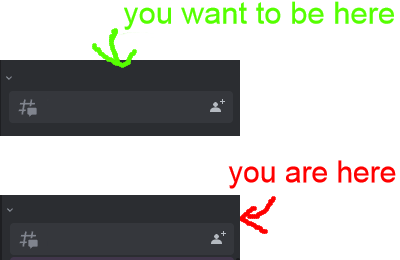
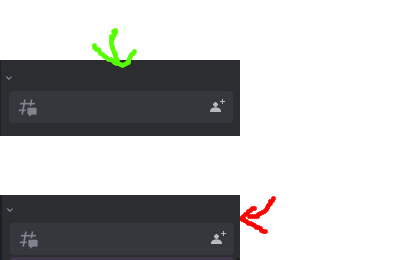
notsupport: make text customisable

Changed region(s): [[0.57, 0.6154, 0.99, 0.7385], [0.3, 0.0, 0.81, 0.1231], [0.84, 0.0, 0.99, 0.0923]]

diff --git a/src/commands/notsupport.ts b/src/commands/notsupport.ts
@@ -11,8 +11,10 @@ const FONT = '"gg sans", "Twemoji Mozilla", "Noto Sans", "Helvetica Neue", Helve
 let img: Image;
 
 interface Channels {
+    destCaption: string;
     destCategory: string;
     destChannel: string;
+    currentCaption: string;
     currentCategory: string;
     currentChannel: string;
 }
@@ -20,20 +22,33 @@ interface Channels {
 defineCommand({
     name: "notsupport",
     aliases: ["ns", "nots"],
-    async execute(msg, channelId) {
+    async execute(msg, channelId, ...captionElements) {
         if (!msg.inCachedGuildChannel()) return;
 
-        let channel = channelId && msg.guild.channels.get(channelId.match(/\d+/)?.[0] || "");
-        channel ||= msg.client.getChannel(SUPPORT_CHANNEL_ID) as AnyGuildChannelWithoutThreads;
+        let channel = msg.client.getChannel(SUPPORT_CHANNEL_ID) as AnyGuildChannelWithoutThreads;
+        let caption = captionElements.join(" ");
+        if (channelId) {
+            const customChannel = msg.guild.channels.get(channelId.match(/\d+/)?.[0] || "");
+            if (customChannel) {
+                channel = customChannel;
+            } else {
+                caption = channelId + " " + caption;
+            }
+        }
 
         if (!channel || !channel.name) return;
+
+        const [destCaption, currentCaption] = caption.split("|").map(s => s.trim());
 
         const image = await drawNotSupportImage({
             currentCategory: msg.channel.parent?.name || "No Category",
             currentChannel: msg.channel.name,
             destCategory: channel.parent?.name || "No Category",
-            destChannel: channel.name
+            destChannel: channel.name,
+            destCaption: destCaption || "you want to be here",
+            currentCaption: currentCaption || "you are here"
         });
+
         msg.channel.createMessage({
             content: `👉 ${channel.mention}`,
             files: [
@@ -91,10 +106,23 @@ function draw(channels: Channels) {
         ctx.restore();
     }
 
+    function drawText(color: string, text: string, x: number, y: number) {
+        ctx.save();
+
+        ctx.font = "600 25px " + FONT;
+        ctx.fillStyle = color;
+        ctx.fillText(fitString(text, WIDTH - x), x, y);
+
+        ctx.restore();
+    }
+
     drawCategory(channels.destCategory, 83);
     drawChannel(channels.destChannel, 112);
     drawCategory(channels.currentCategory, 215);
     drawChannel(channels.currentChannel, 244);
+
+    drawText("lime", channels.destCaption, 120, 20);
+    drawText("red", channels.currentCaption, 220, 180);
 
     return canvas.toBuffer();
 }
